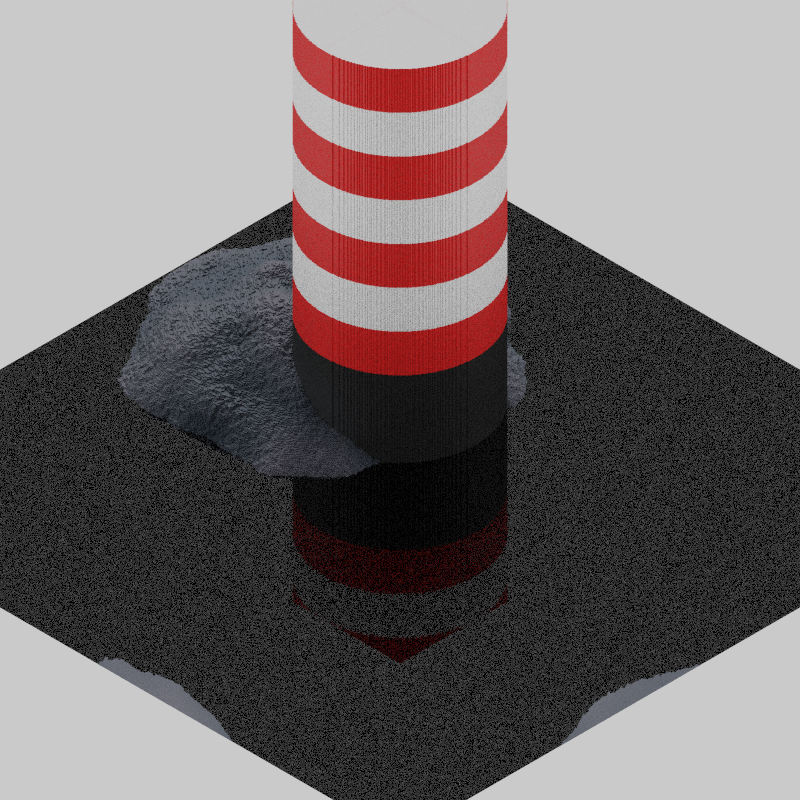
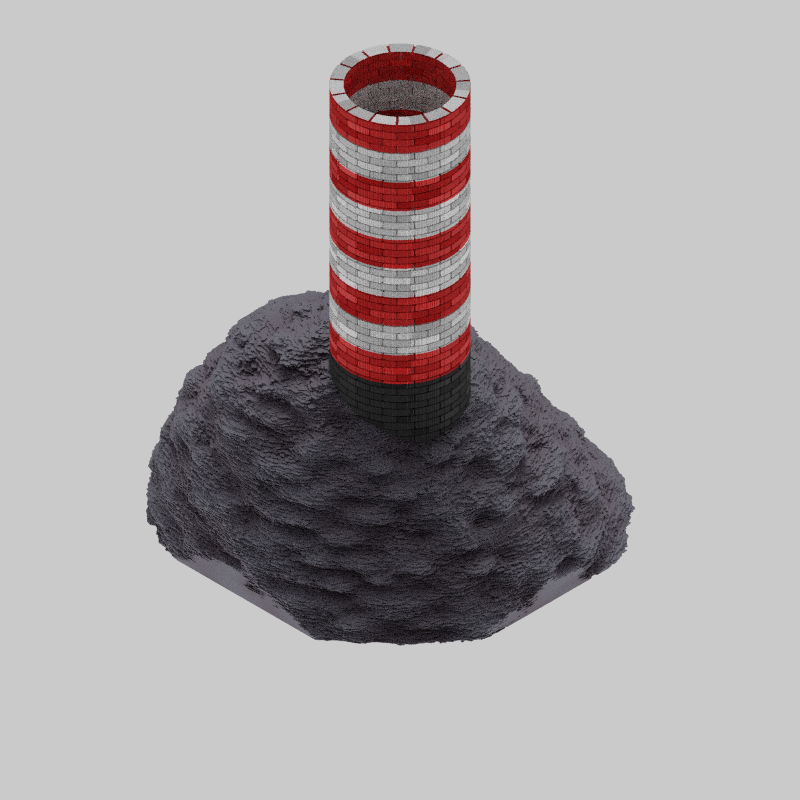
Various improvements

diff --git a/shapezlib/src/node/execution.rs b/shapezlib/src/node/execution.rs
@@ -315,7 +315,27 @@ impl Execution {
                     let a = self.stack.pop().unwrap();
                     self.stack.push(a.smoothstep(b, c));
                 }
-                NodeOp::NoiseValue => {
+                NodeOp::Clamp => {
+                    let c: Value = self.stack.pop().unwrap();
+                    let b: Value = self.stack.pop().unwrap();
+                    let a = self.stack.pop().unwrap();
+                    self.stack.push(a.clamp(b, c));
+                }
+                NodeOp::SmoothUnion => {
+                    let c: Value = self.stack.pop().unwrap();
+                    let b: Value = self.stack.pop().unwrap();
+                    let a = self.stack.pop().unwrap();
+                    self.stack.push(Value::from_float(self.smooth_min(
+                        a.as_float(),
+                        b.as_float(),
+                        c.as_float(),
+                    )));
+                }
+                NodeOp::WhiteNoise => {
+                    let val = self.white_noise();
+                    self.stack.push(Value::from_float(val));
+                }
+                NodeOp::ValueNoise => {
                     let b = self.stack.pop().unwrap();
                     let a = self.stack.pop().unwrap();
                     let val = self.value_noise(a.as_float() as i32, b.as_vec3());
@@ -495,7 +515,6 @@ impl Execution {
                     anchor.x = anchor.x.clamp(0.0, 1.0);
                     anchor.y = anchor.y.clamp(0.0, 1.0);
 
-                    // ───────────── plane-specific data ─────────────
                     let bb_size = self.bbox.size();
                     let (plane_min, plane_size) = match self.plane {
                         Plane::XY => (
@@ -547,7 +566,6 @@ impl Execution {
                         }
                     }
 
-                    // ───────────── (rest of your original code stays unchanged) ─────────────
                     if self.bbox.contains_point(self.local.as_vec3()) {
                         let local = self.local.as_vec3();
 
@@ -570,8 +588,13 @@ impl Execution {
                         let rlen = p.magnitude();
                         let sdf = rlen - r;
 
-                        self.u = Value::from_float(theta);
-                        self.v = Value::from_float(h);
+                        use std::f32::consts::TAU;
+
+                        let repeats = 5.0;
+                        let u = (theta / TAU * repeats + repeats * 0.5).fract();
+
+                        self.u = Value::from_float(u);
+                        self.v = Value::from_float(h.abs());
                         self.sdf = Value::from_float(sdf);
                         self.inside = Value::from_float(-sdf);
 
@@ -968,65 +991,18 @@ impl Execution {
         program.grid.write().unwrap().merge(&grid);
     }
 
-    /*
-    /// Place a voxel box into the world. We first model into a separate grid
-    /// and than merge back into the program grid.
-    pub fn place(&mut self, id: &String, program: &mut Program) {
-        let voxel = match program.voxels.get(id) {
-            Some(defined) => defined.clone(),
-            None => return,
-        };
+    /// SDF to a Hexagon
+    #[inline]
+    fn _sdf_hex(p: Vec2<f32>, radius: f32) -> f32 {
+        let k = Vec2::new(-0.8660254, 0.5); // cos(π/6), sin(π/6)
+        let p = p.map(|v| v.abs());
 
-        let mut grid = VoxelGrid::empty(program.grid.read().unwrap().density);
+        let a = p - k * (p.dot(k)).min(radius);
+        let b = p - Vec2::new(radius, 0.0);
+        let inside = if p.y > radius * 0.5 { a } else { b };
 
-        let mut execution = Execution::new_from_var(&self);
-
-        let mut size = Vec3::new(1.0, 1.0, 1.0);
-        execution.execute(&voxel.size, program);
-        if let Some(value) = execution.stack.last() {
-            size = value.as_vec3();
-        }
-
-        let rect = VoxelRect {
-            origin: Vec3::zero(),
-            size,
-        };
-
-        for world in rect.iter_voxels(&grid) {
-            let local = rect.world_to_local(world);
-
-            execution.stack.clear();
-
-            // Set up the voxel coordinates
-            execution.world = Value::from_vec3(world);
-            execution.local = Value::from_vec3(local);
-
-            // Inital bbox for the grid which the shapes adhere to and segments subdivide.
-            execution.bbox = Aabb {
-                min: -size / 2.0,
-                max: size / 2.0,
-            };
-
-            // Execute the voxel body
-            execution.execute(&voxel.body, program);
-
-            // Recursively execute voxels shapes
-            // for shape in voxel.shapes.iter() {
-            //     shape.execute(&mut execution, program);
-            // }
-
-            // Set the result.
-            if let Some(value) = execution.stack.last() {
-                let mat = value.x();
-                if mat >= 0.0 {
-                    let hash = (execution.hash * 255.0).floor() as u8;
-                    grid.set_create(world, Voxel::new(mat as u8, hash));
-                }
-            }
-        }
-
-        program.grid.write().unwrap().merge(&grid);
-    }*/
+        inside.magnitude() * inside.y.signum()
+    }
 
     /// SDF to a 2D box
     #[inline]
@@ -1042,9 +1018,24 @@ impl Execution {
         (dot.sin().fract() * 43758.5453).fract()
     }
 
+    #[inline]
+    fn smooth_min(&self, a: f32, b: f32, k: f32) -> f32 {
+        let h = (0.5 + 0.5 * (b - a) / k).clamp(0.0, 1.0);
+        let m = b * (1.0 - h) + a * h;
+        m - k * h * (1.0 - h)
+    }
+
+    #[inline]
+    fn white_noise(&self) -> f32 {
+        let p = self.local.as_vec3();
+
+        let dot = (p.x + p.z) * 127.1 + (p.y + p.z) * 311.7 + (p.x + p.y) * 74.7;
+        (dot.sin() * 43758.5453).fract()
+    }
+
     /// Value noise 3D
     /// Base on https://www.shadertoy.com/view/4dS3Wd
-    pub fn value_noise(&self, octaves: i32, scale: Vec3<f32>) -> f32 {
+    fn value_noise(&self, octaves: i32, scale: Vec3<f32>) -> f32 {
         fn hash(mut p: f32) -> f32 {
             p = (p * 0.011).fract();
             p *= p + 7.5;

diff --git a/shapezlib/src/ast/compile.rs b/shapezlib/src/ast/compile.rs
@@ -100,11 +100,19 @@ impl Visitor for CompileVisitor {
             },
         );
         functions.insert(
-            "noise_value".to_string(),
+            "white_noise".to_string(),
             ASTFunction {
-                name: "noise_value".to_string(),
+                name: "white_noise".to_string(),
+                arguments: 0,
+                op: NodeOp::WhiteNoise,
+            },
+        );
+        functions.insert(
+            "value_noise".to_string(),
+            ASTFunction {
+                name: "value_noise".to_string(),
                 arguments: 2,
-                op: NodeOp::NoiseValue,
+                op: NodeOp::ValueNoise,
             },
         );
         functions.insert(
@@ -137,6 +145,22 @@ impl Visitor for CompileVisitor {
                 name: "smoothstep".to_string(),
                 arguments: 3,
                 op: NodeOp::Smoothstep,
+            },
+        );
+        functions.insert(
+            "clamp".to_string(),
+            ASTFunction {
+                name: "clamp".to_string(),
+                arguments: 3,
+                op: NodeOp::Clamp,
+            },
+        );
+        functions.insert(
+            "smooth_union".to_string(),
+            ASTFunction {
+                name: "smooth_union".to_string(),
+                arguments: 3,
+                op: NodeOp::SmoothUnion,
             },
         );
 

diff --git a/shapezlib/src/voxel/renderer/bsdf.rs b/shapezlib/src/voxel/renderer/bsdf.rs
@@ -78,6 +78,7 @@ impl Renderer for BSDF {
                 let mut execution = self.execution.clone();
                 execution.hash = voxel.hash as f32 / 255.0;
                 execution.world = Value::from_vec3(hit.hitpoint);
+                execution.local = execution.world;
                 execution.execute(&materials[voxel.material as usize], program);
 
                 // let material = &execution.material;

diff --git a/shapezlib/src/node/value.rs b/shapezlib/src/node/value.rs
@@ -172,4 +172,13 @@ impl Value {
         }
         Value(out)
     }
+
+    #[inline]
+    pub fn clamp(self, min: Self, max: Self) -> Self {
+        let mut out = [0.0; 3];
+        for i in 0..3 {
+            out[i] = self.0[i].clamp(min.0[i], max.0[i]);
+        }
+        Value(out)
+    }
 }

diff --git a/shapezlib/src/voxel/camera/iso.rs b/shapezlib/src/voxel/camera/iso.rs
@@ -15,7 +15,7 @@ impl Camera for Iso {
         Self {
             center: Vec3::zero(),
 
-            scale: 50.0,
+            scale: 60.0,
             yaw: std::f32::consts::FRAC_PI_4,
             pitch: -0.61548, // classic iso
                              // pitch: -0.87266, // UO

diff --git a/shapezlib/src/ast/idverifier.rs b/shapezlib/src/ast/idverifier.rs
@@ -55,7 +55,9 @@ impl IdVerifier {
             "step",
             "exp",
             "log",
-            "noise_value",
+            "white_noise",
+            "value_noise",
+            "smooth_union",
         ];
 
         for func in inbuilt_functions {

diff --git a/shapezlib/src/node/mod.rs b/shapezlib/src/node/mod.rs
@@ -53,7 +53,10 @@ pub enum NodeOp {
     Max,
     Mix,
     Smoothstep,
-    NoiseValue,
+    Clamp,
+    SmoothUnion,
+    WhiteNoise,
+    ValueNoise,
     Eq,
     Ne,
     Lt,
